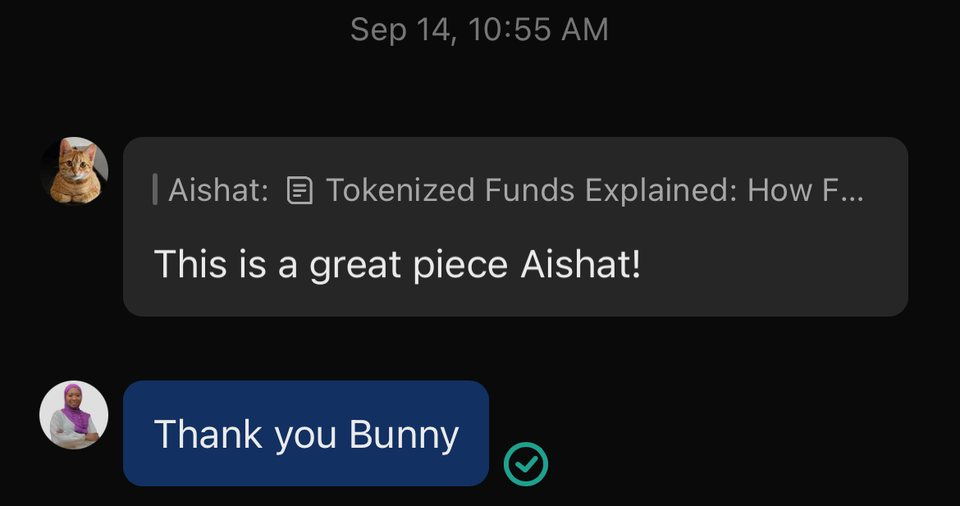
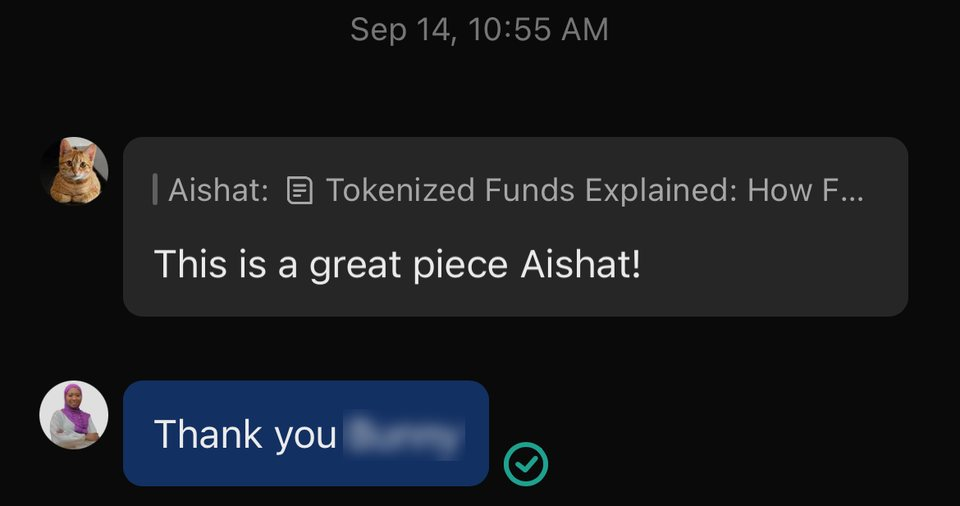
Sereel: SEO research, tools and platforms, blurred names in feedback
Adds an SEO research step (Ahrefs, Semrush Keyword Overview and Site
Audit) and a Tools and platforms section in the facts list style.
The feedback screenshots now blur everyone's names except Aishat's.
The other case studies only pick up the new shared style.

Claude-Session: https://claude.ai/code/session_01XHYe4MUWViC3jSLNjhurio

Changed region(s): [[0.3438, 0.8004, 0.5, 0.919]]

diff --git a/design/CaseSereel.dc.html b/design/CaseSereel.dc.html
@@ -644,6 +644,8 @@ html.aishah-io .home :is(.quote-hint-text,.moment-hint-text){opacity:calc(1 - va
 .case-quote{display:flex;flex-direction:column;gap:var(--space-related);margin:0;padding-left:var(--space-cluster);border-left:var(--focus-width) solid var(--case-quote-rule);}
 .case-quote blockquote{margin:0;}
 /* five results: three across, then two across */
+/* tools and platforms: the facts list, with room for longer group names, and no gap above */
+.case-facts.is-tools{--case-fact-label:calc(var(--primitive-space-8) * 2 + var(--primitive-space-6));margin-top:0;}
 .case-tiles.is-five{grid-template-columns:repeat(6,minmax(0,1fr));}
 .case-tiles.is-five .tile{grid-column:span 2;}
 .case-tiles.is-five .tile:nth-child(n+4){grid-column:span 3;}
@@ -794,10 +796,25 @@ html.aishah-io .home :is(.quote-hint-text,.moment-hint-text){opacity:calc(1 - va
 <div class="case-main">
 <ol class="case-steps">
 <li class="case-step"><span class="case-step-mark is-dot" aria-hidden="true"></span><div class="case-step-body"><h3 class="t-title">Research</h3><p class="t-body">I started by researching the market, regulatory developments, and the challenges shaping the tokenization industry. I also explored the questions and information needs of Sereel’s intended audience to identify topics worth communicating.</p><p class="t-body">This research helped me connect developments in the wider financial industry to Sereel’s positioning, creating a foundation for content that went beyond promotion to explain why these developments mattered.</p></div></li>
-<li class="case-step"><span class="case-step-mark is-half" aria-hidden="true"></span><div class="case-step-body"><h3 class="t-title">Writing</h3><p class="t-body">I took ownership of Sereel’s long-form blog content, establishing a more consistent publishing rhythm. I also developed educational and thought-leadership content for LinkedIn and contributed newsletter content to extend these ideas into different formats.</p><p class="t-body">Rather than treating complex industry developments as information to report, I focused on explaining their implications. From regulatory changes to the infrastructure needed for tokenized assets to participate in financial markets, I worked to make technical subjects clearer and more relevant to the intended audience.</p></div></li>
-<li class="case-step"><span class="case-step-mark is-ring" aria-hidden="true"></span><div class="case-step-body"><h3 class="t-title">Publishing</h3><p class="t-body">I also handled publishing. I uploaded content to Sereel’s CMS and worked directly in GitHub to publish and update content on the website, bringing my background as a software developer into the content workflow.</p></div></li>
-<li class="case-step"><span class="case-step-mark is-pill" aria-hidden="true"></span><div class="case-step-body"><h3 class="t-title">Video and distribution</h3><p class="t-body">I extended Sereel’s educational content into short-form video, scripting, filming, and editing videos that made complex financial concepts more accessible.</p><p class="t-body">I also helped expand the brand’s digital presence across YouTube, TikTok, and Instagram, creating additional touchpoints for its ideas beyond LinkedIn.</p><p class="t-body">This gave Sereel more ways to communicate with its audience and allowed research-led themes to reach people through different formats.</p></div></li>
+<li class="case-step"><span class="case-step-mark is-half" aria-hidden="true"></span><div class="case-step-body"><h3 class="t-title">SEO research</h3><p class="t-body">I conducted SEO research for selected articles. I used Ahrefs to investigate keyword opportunities, search demand, and related questions around topics such as tokenized funds. I also used Semrush’s Keyword Overview and Site Audit to assess search opportunities and review aspects of Sereel’s search visibility and website health. This research helped inform article topics and identify opportunities to make content more discoverable through non-branded searches.</p></div></li>
+<li class="case-step"><span class="case-step-mark is-ring" aria-hidden="true"></span><div class="case-step-body"><h3 class="t-title">Writing</h3><p class="t-body">I took ownership of Sereel’s long-form blog content, establishing a more consistent publishing rhythm. I also developed educational and thought-leadership content for LinkedIn and contributed newsletter content to extend these ideas into different formats.</p><p class="t-body">Rather than treating complex industry developments as information to report, I focused on explaining their implications. From regulatory changes to the infrastructure needed for tokenized assets to participate in financial markets, I worked to make technical subjects clearer and more relevant to the intended audience.</p></div></li>
+<li class="case-step"><span class="case-step-mark is-pill" aria-hidden="true"></span><div class="case-step-body"><h3 class="t-title">Publishing</h3><p class="t-body">I also handled publishing. I uploaded content to Sereel’s CMS and worked directly in GitHub to publish and update content on the website, bringing my background as a software developer into the content workflow.</p></div></li>
+<li class="case-step"><span class="case-step-mark is-dot" aria-hidden="true"></span><div class="case-step-body"><h3 class="t-title">Video and distribution</h3><p class="t-body">I extended Sereel’s educational content into short-form video, scripting, filming, and editing videos that made complex financial concepts more accessible.</p><p class="t-body">I also helped expand the brand’s digital presence across YouTube, TikTok, and Instagram, creating additional touchpoints for its ideas beyond LinkedIn.</p><p class="t-body">This gave Sereel more ways to communicate with its audience and allowed research-led themes to reach people through different formats.</p></div></li>
 </ol>
+</div>
+</div>
+</section>
+
+<section id="tools" class="case-section" aria-labelledby="tools-title">
+<div class="container case-grid reveal">
+<h2 id="tools-title" class="t-label case-label"><span class="label-dot" aria-hidden="true"></span>Tools and platforms</h2>
+<div class="case-main">
+<dl class="case-facts is-tools">
+<div class="case-fact"><dt class="t-label">SEO and keyword research</dt><dd class="t-body"><ul class="case-fact-list"><li>Ahrefs</li><li>Semrush Keyword Overview</li><li>Semrush Site Audit</li></ul></dd></div>
+<div class="case-fact"><dt class="t-label">Content publishing and formatting</dt><dd class="t-body"><ul class="case-fact-list"><li>GitHub</li><li>Markdown</li></ul></dd></div>
+<div class="case-fact"><dt class="t-label">Research</dt><dd class="t-body"><ul class="case-fact-list"><li>Google Search</li><li>Primary-source research</li></ul></dd></div>
+<div class="case-fact"><dt class="t-label">Content distribution</dt><dd class="t-body"><ul class="case-fact-list"><li>LinkedIn</li><li>Substack/newsletter distribution</li><li>Instagram</li><li>YouTube</li><li>TikTok</li></ul></dd></div>
+</dl>
 </div>
 </div>
 </section>
@@ -896,8 +913,8 @@ html.aishah-io .home :is(.quote-hint-text,.moment-hint-text){opacity:calc(1 - va
 <h2 id="feedback-title" class="t-label case-label"><span class="label-dot" aria-hidden="true"></span>Feedback</h2>
 <div class="case-main">
 <div class="case-feedback">
-<div class="case-feedback-col"><figure class="case-feedback-shot"><img src="/_blob/6a1896708a80e8e5ea0ac0631dbccf4e" alt="Team chat. Aishat shares a short-form video titled Transfer Agents. Bunny replies: I like this videos compared to the AI ones, the audience will relate more. Lance Davis reacts with 100." loading="lazy"><figcaption class="t-caption secondary">On my short-form video about transfer agents</figcaption></figure><figure class="case-feedback-shot"><img src="/_blob/f7b96e52039d35372f7c35ad3d4fdd6c" alt="Chat message from Bunny about Aishat’s piece Tokenized Funds Explained: This is a great piece Aishat! Aishat replies: Thank you Bunny." loading="lazy"><figcaption class="t-caption secondary">On my piece Tokenized Funds Explained</figcaption></figure></div>
-<div class="case-feedback-col"><figure class="case-feedback-shot"><img src="/_blob/6c7900b3b5e6eafe07e3e4a0fcb7e8c2" alt="Team chat. Aishat shares a short-form video on tokenized money market funds, captioned Short form content. Bunny replies: this is fire. Lance Davis replies: flaaaaames Aishat, g2g." loading="lazy"><figcaption class="t-caption secondary">On my short-form video about tokenized money market funds</figcaption></figure></div>
+<div class="case-feedback-col"><figure class="case-feedback-shot"><img src="/_blob/0119becbdcb4aeacaf526f57d2325e74" alt="Team chat. Aishat shares a short-form video titled Transfer Agents. Bunny replies: I like this videos compared to the AI ones, the audience will relate more. Lance Davis reacts with 100." loading="lazy"><figcaption class="t-caption secondary">On my short-form video about transfer agents</figcaption></figure><figure class="case-feedback-shot"><img src="/_blob/1b0a92083b306de57f8ce51ce00fd215" alt="Chat message from Bunny about Aishat’s piece Tokenized Funds Explained: This is a great piece Aishat! Aishat replies: Thank you Bunny." loading="lazy"><figcaption class="t-caption secondary">On my piece Tokenized Funds Explained</figcaption></figure></div>
+<div class="case-feedback-col"><figure class="case-feedback-shot"><img src="/_blob/12c6bf5a041ebf17dfa9a8bc09acd611" alt="Team chat. Aishat shares a short-form video on tokenized money market funds, captioned Short form content. Bunny replies: this is fire. Lance Davis replies: flaaaaames Aishat, g2g." loading="lazy"><figcaption class="t-caption secondary">On my short-form video about tokenized money market funds</figcaption></figure></div>
 </div>
 </div>
 </div>

diff --git a/components/views/CaseSereelView.tsx b/components/views/CaseSereelView.tsx
@@ -228,6 +228,15 @@ export default function CaseSereelView() {
               <li className="case-step">
                 <span className="case-step-mark is-half" aria-hidden="true" />
                 <div className="case-step-body">
+                  <h3 className="t-title">SEO research</h3>
+                  <p className="t-body">
+                    I conducted SEO research for selected articles. I used Ahrefs to investigate keyword opportunities, search demand, and related questions around topics such as tokenized funds. I also used Semrush’s Keyword Overview and Site Audit to assess search opportunities and review aspects of Sereel’s search visibility and website health. This research helped inform article topics and identify opportunities to make content more discoverable through non-branded searches.
+                  </p>
+                </div>
+              </li>
+              <li className="case-step">
+                <span className="case-step-mark is-ring" aria-hidden="true" />
+                <div className="case-step-body">
                   <h3 className="t-title">Writing</h3>
                   <p className="t-body">
                     I took ownership of Sereel’s long-form blog content, establishing a more consistent publishing rhythm. I also developed educational and thought-leadership content for LinkedIn and contributed newsletter content to extend these ideas into different formats.
@@ -238,7 +247,7 @@ export default function CaseSereelView() {
                 </div>
               </li>
               <li className="case-step">
-                <span className="case-step-mark is-ring" aria-hidden="true" />
+                <span className="case-step-mark is-pill" aria-hidden="true" />
                 <div className="case-step-body">
                   <h3 className="t-title">Publishing</h3>
                   <p className="t-body">
@@ -247,7 +256,7 @@ export default function CaseSereelView() {
                 </div>
               </li>
               <li className="case-step">
-                <span className="case-step-mark is-pill" aria-hidden="true" />
+                <span className="case-step-mark is-dot" aria-hidden="true" />
                 <div className="case-step-body">
                   <h3 className="t-title">Video and distribution</h3>
                   <p className="t-body">
@@ -262,6 +271,58 @@ export default function CaseSereelView() {
                 </div>
               </li>
             </ol>
+          </div>
+        </div>
+      </section>
+      <section id="tools" className="case-section" aria-labelledby="tools-title">
+        <div className="container case-grid reveal">
+          <h2 id="tools-title" className="t-label case-label">
+            <span className="label-dot" aria-hidden="true" />
+            Tools and platforms
+          </h2>
+          <div className="case-main">
+            <dl className="case-facts is-tools">
+              <div className="case-fact">
+                <dt className="t-label">SEO and keyword research</dt>
+                <dd className="t-body">
+                  <ul className="case-fact-list">
+                    <li>Ahrefs</li>
+                    <li>Semrush Keyword Overview</li>
+                    <li>Semrush Site Audit</li>
+                  </ul>
+                </dd>
+              </div>
+              <div className="case-fact">
+                <dt className="t-label">Content publishing and formatting</dt>
+                <dd className="t-body">
+                  <ul className="case-fact-list">
+                    <li>GitHub</li>
+                    <li>Markdown</li>
+                  </ul>
+                </dd>
+              </div>
+              <div className="case-fact">
+                <dt className="t-label">Research</dt>
+                <dd className="t-body">
+                  <ul className="case-fact-list">
+                    <li>Google Search</li>
+                    <li>Primary-source research</li>
+                  </ul>
+                </dd>
+              </div>
+              <div className="case-fact">
+                <dt className="t-label">Content distribution</dt>
+                <dd className="t-body">
+                  <ul className="case-fact-list">
+                    <li>LinkedIn</li>
+                    <li>Substack/newsletter distribution</li>
+                    <li>Instagram</li>
+                    <li>YouTube</li>
+                    <li>TikTok</li>
+                  </ul>
+                </dd>
+              </div>
+            </dl>
           </div>
         </div>
       </section>

diff --git a/app/work/code-africa/page.css b/app/work/code-africa/page.css
@@ -634,6 +634,8 @@ html.aishah-io .home :is(.quote-hint-text,.moment-hint-text){opacity:calc(1 - va
 .case-quote{display:flex;flex-direction:column;gap:var(--space-related);margin:0;padding-left:var(--space-cluster);border-left:var(--focus-width) solid var(--case-quote-rule);}
 .case-quote blockquote{margin:0;}
 /* five results: three across, then two across */
+/* tools and platforms: the facts list, with room for longer group names, and no gap above */
+.case-facts.is-tools{--case-fact-label:calc(var(--primitive-space-8) * 2 + var(--primitive-space-6));margin-top:0;}
 .case-tiles.is-five{grid-template-columns:repeat(6,minmax(0,1fr));}
 .case-tiles.is-five .tile{grid-column:span 2;}
 .case-tiles.is-five .tile:nth-child(n+4){grid-column:span 3;}

diff --git a/app/work/community-for-africa/page.css b/app/work/community-for-africa/page.css
@@ -634,6 +634,8 @@ html.aishah-io .home :is(.quote-hint-text,.moment-hint-text){opacity:calc(1 - va
 .case-quote{display:flex;flex-direction:column;gap:var(--space-related);margin:0;padding-left:var(--space-cluster);border-left:var(--focus-width) solid var(--case-quote-rule);}
 .case-quote blockquote{margin:0;}
 /* five results: three across, then two across */
+/* tools and platforms: the facts list, with room for longer group names, and no gap above */
+.case-facts.is-tools{--case-fact-label:calc(var(--primitive-space-8) * 2 + var(--primitive-space-6));margin-top:0;}
 .case-tiles.is-five{grid-template-columns:repeat(6,minmax(0,1fr));}
 .case-tiles.is-five .tile{grid-column:span 2;}
 .case-tiles.is-five .tile:nth-child(n+4){grid-column:span 3;}

diff --git a/app/work/invisible-garden/page.css b/app/work/invisible-garden/page.css
@@ -634,6 +634,8 @@ html.aishah-io .home :is(.quote-hint-text,.moment-hint-text){opacity:calc(1 - va
 .case-quote{display:flex;flex-direction:column;gap:var(--space-related);margin:0;padding-left:var(--space-cluster);border-left:var(--focus-width) solid var(--case-quote-rule);}
 .case-quote blockquote{margin:0;}
 /* five results: three across, then two across */
+/* tools and platforms: the facts list, with room for longer group names, and no gap above */
+.case-facts.is-tools{--case-fact-label:calc(var(--primitive-space-8) * 2 + var(--primitive-space-6));margin-top:0;}
 .case-tiles.is-five{grid-template-columns:repeat(6,minmax(0,1fr));}
 .case-tiles.is-five .tile{grid-column:span 2;}
 .case-tiles.is-five .tile:nth-child(n+4){grid-column:span 3;}

diff --git a/app/work/one-dev/page.css b/app/work/one-dev/page.css
@@ -634,6 +634,8 @@ html.aishah-io .home :is(.quote-hint-text,.moment-hint-text){opacity:calc(1 - va
 .case-quote{display:flex;flex-direction:column;gap:var(--space-related);margin:0;padding-left:var(--space-cluster);border-left:var(--focus-width) solid var(--case-quote-rule);}
 .case-quote blockquote{margin:0;}
 /* five results: three across, then two across */
+/* tools and platforms: the facts list, with room for longer group names, and no gap above */
+.case-facts.is-tools{--case-fact-label:calc(var(--primitive-space-8) * 2 + var(--primitive-space-6));margin-top:0;}
 .case-tiles.is-five{grid-template-columns:repeat(6,minmax(0,1fr));}
 .case-tiles.is-five .tile{grid-column:span 2;}
 .case-tiles.is-five .tile:nth-child(n+4){grid-column:span 3;}

diff --git a/app/work/open-terms-archive/page.css b/app/work/open-terms-archive/page.css
@@ -634,6 +634,8 @@ html.aishah-io .home :is(.quote-hint-text,.moment-hint-text){opacity:calc(1 - va
 .case-quote{display:flex;flex-direction:column;gap:var(--space-related);margin:0;padding-left:var(--space-cluster);border-left:var(--focus-width) solid var(--case-quote-rule);}
 .case-quote blockquote{margin:0;}
 /* five results: three across, then two across */
+/* tools and platforms: the facts list, with room for longer group names, and no gap above */
+.case-facts.is-tools{--case-fact-label:calc(var(--primitive-space-8) * 2 + var(--primitive-space-6));margin-top:0;}
 .case-tiles.is-five{grid-template-columns:repeat(6,minmax(0,1fr));}
 .case-tiles.is-five .tile{grid-column:span 2;}
 .case-tiles.is-five .tile:nth-child(n+4){grid-column:span 3;}

diff --git a/app/work/sereel/page.css b/app/work/sereel/page.css
@@ -634,6 +634,8 @@ html.aishah-io .home :is(.quote-hint-text,.moment-hint-text){opacity:calc(1 - va
 .case-quote{display:flex;flex-direction:column;gap:var(--space-related);margin:0;padding-left:var(--space-cluster);border-left:var(--focus-width) solid var(--case-quote-rule);}
 .case-quote blockquote{margin:0;}
 /* five results: three across, then two across */
+/* tools and platforms: the facts list, with room for longer group names, and no gap above */
+.case-facts.is-tools{--case-fact-label:calc(var(--primitive-space-8) * 2 + var(--primitive-space-6));margin-top:0;}
 .case-tiles.is-five{grid-template-columns:repeat(6,minmax(0,1fr));}
 .case-tiles.is-five .tile{grid-column:span 2;}
 .case-tiles.is-five .tile:nth-child(n+4){grid-column:span 3;}

diff --git a/app/work/web3ladies/page.css b/app/work/web3ladies/page.css
@@ -634,6 +634,8 @@ html.aishah-io .home :is(.quote-hint-text,.moment-hint-text){opacity:calc(1 - va
 .case-quote{display:flex;flex-direction:column;gap:var(--space-related);margin:0;padding-left:var(--space-cluster);border-left:var(--focus-width) solid var(--case-quote-rule);}
 .case-quote blockquote{margin:0;}
 /* five results: three across, then two across */
+/* tools and platforms: the facts list, with room for longer group names, and no gap above */
+.case-facts.is-tools{--case-fact-label:calc(var(--primitive-space-8) * 2 + var(--primitive-space-6));margin-top:0;}
 .case-tiles.is-five{grid-template-columns:repeat(6,minmax(0,1fr));}
 .case-tiles.is-five .tile{grid-column:span 2;}
 .case-tiles.is-five .tile:nth-child(n+4){grid-column:span 3;}

diff --git a/design/CaseCodeAfrica.dc.html b/design/CaseCodeAfrica.dc.html
@@ -644,6 +644,8 @@ html.aishah-io .home :is(.quote-hint-text,.moment-hint-text){opacity:calc(1 - va
 .case-quote{display:flex;flex-direction:column;gap:var(--space-related);margin:0;padding-left:var(--space-cluster);border-left:var(--focus-width) solid var(--case-quote-rule);}
 .case-quote blockquote{margin:0;}
 /* five results: three across, then two across */
+/* tools and platforms: the facts list, with room for longer group names, and no gap above */
+.case-facts.is-tools{--case-fact-label:calc(var(--primitive-space-8) * 2 + var(--primitive-space-6));margin-top:0;}
 .case-tiles.is-five{grid-template-columns:repeat(6,minmax(0,1fr));}
 .case-tiles.is-five .tile{grid-column:span 2;}
 .case-tiles.is-five .tile:nth-child(n+4){grid-column:span 3;}

diff --git a/design/CaseCommunityForAfrica.dc.html b/design/CaseCommunityForAfrica.dc.html
@@ -644,6 +644,8 @@ html.aishah-io .home :is(.quote-hint-text,.moment-hint-text){opacity:calc(1 - va
 .case-quote{display:flex;flex-direction:column;gap:var(--space-related);margin:0;padding-left:var(--space-cluster);border-left:var(--focus-width) solid var(--case-quote-rule);}
 .case-quote blockquote{margin:0;}
 /* five results: three across, then two across */
+/* tools and platforms: the facts list, with room for longer group names, and no gap above */
+.case-facts.is-tools{--case-fact-label:calc(var(--primitive-space-8) * 2 + var(--primitive-space-6));margin-top:0;}
 .case-tiles.is-five{grid-template-columns:repeat(6,minmax(0,1fr));}
 .case-tiles.is-five .tile{grid-column:span 2;}
 .case-tiles.is-five .tile:nth-child(n+4){grid-column:span 3;}

diff --git a/design/CaseInvisibleGarden.dc.html b/design/CaseInvisibleGarden.dc.html
@@ -644,6 +644,8 @@ html.aishah-io .home :is(.quote-hint-text,.moment-hint-text){opacity:calc(1 - va
 .case-quote{display:flex;flex-direction:column;gap:var(--space-related);margin:0;padding-left:var(--space-cluster);border-left:var(--focus-width) solid var(--case-quote-rule);}
 .case-quote blockquote{margin:0;}
 /* five results: three across, then two across */
+/* tools and platforms: the facts list, with room for longer group names, and no gap above */
+.case-facts.is-tools{--case-fact-label:calc(var(--primitive-space-8) * 2 + var(--primitive-space-6));margin-top:0;}
 .case-tiles.is-five{grid-template-columns:repeat(6,minmax(0,1fr));}
 .case-tiles.is-five .tile{grid-column:span 2;}
 .case-tiles.is-five .tile:nth-child(n+4){grid-column:span 3;}
